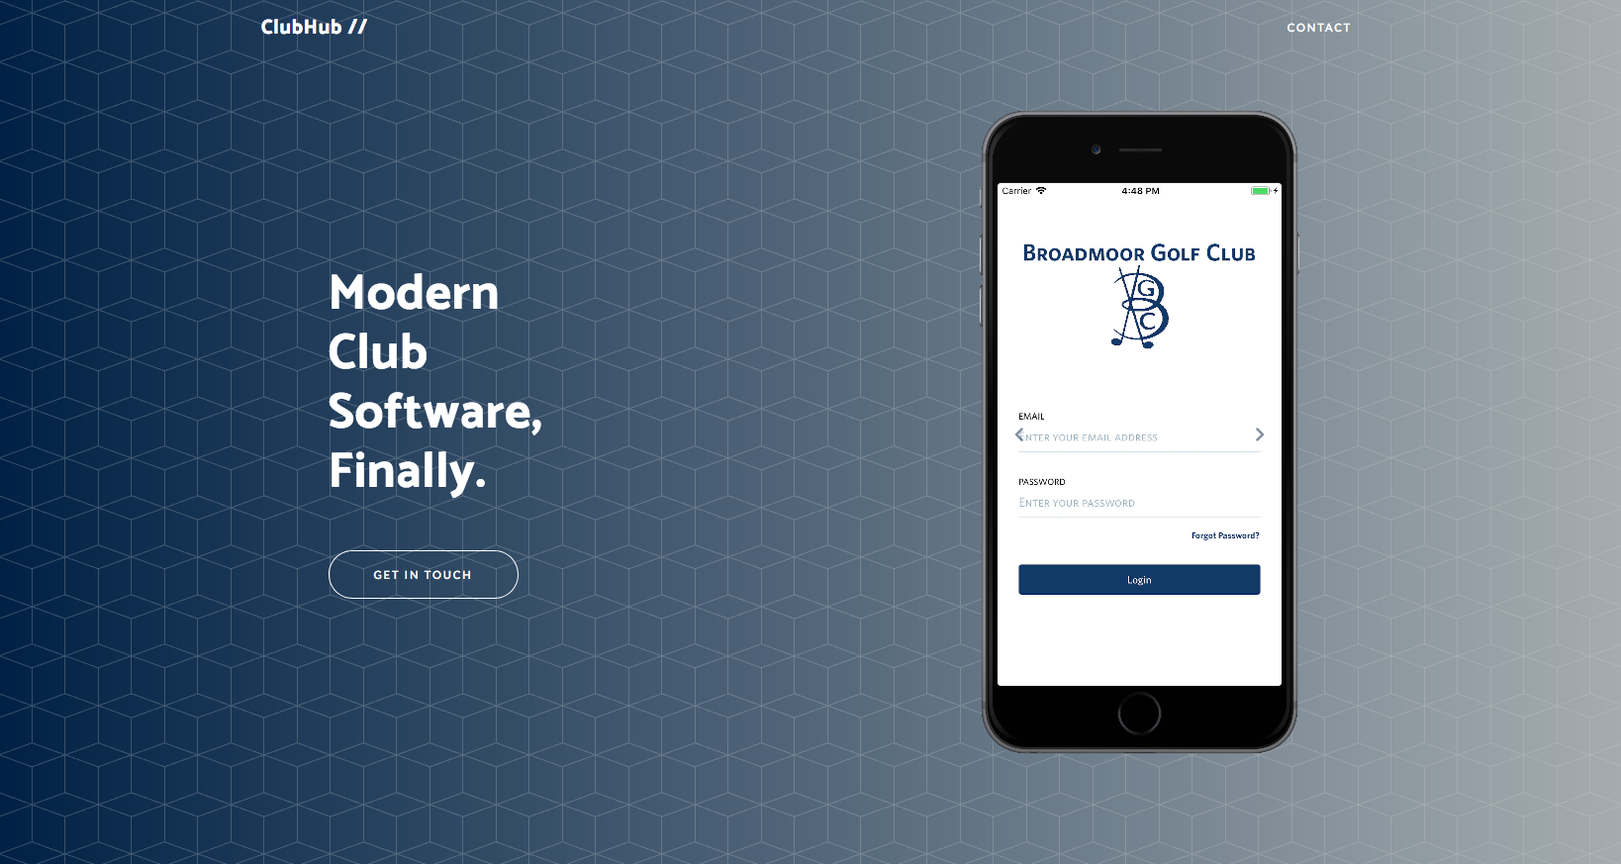
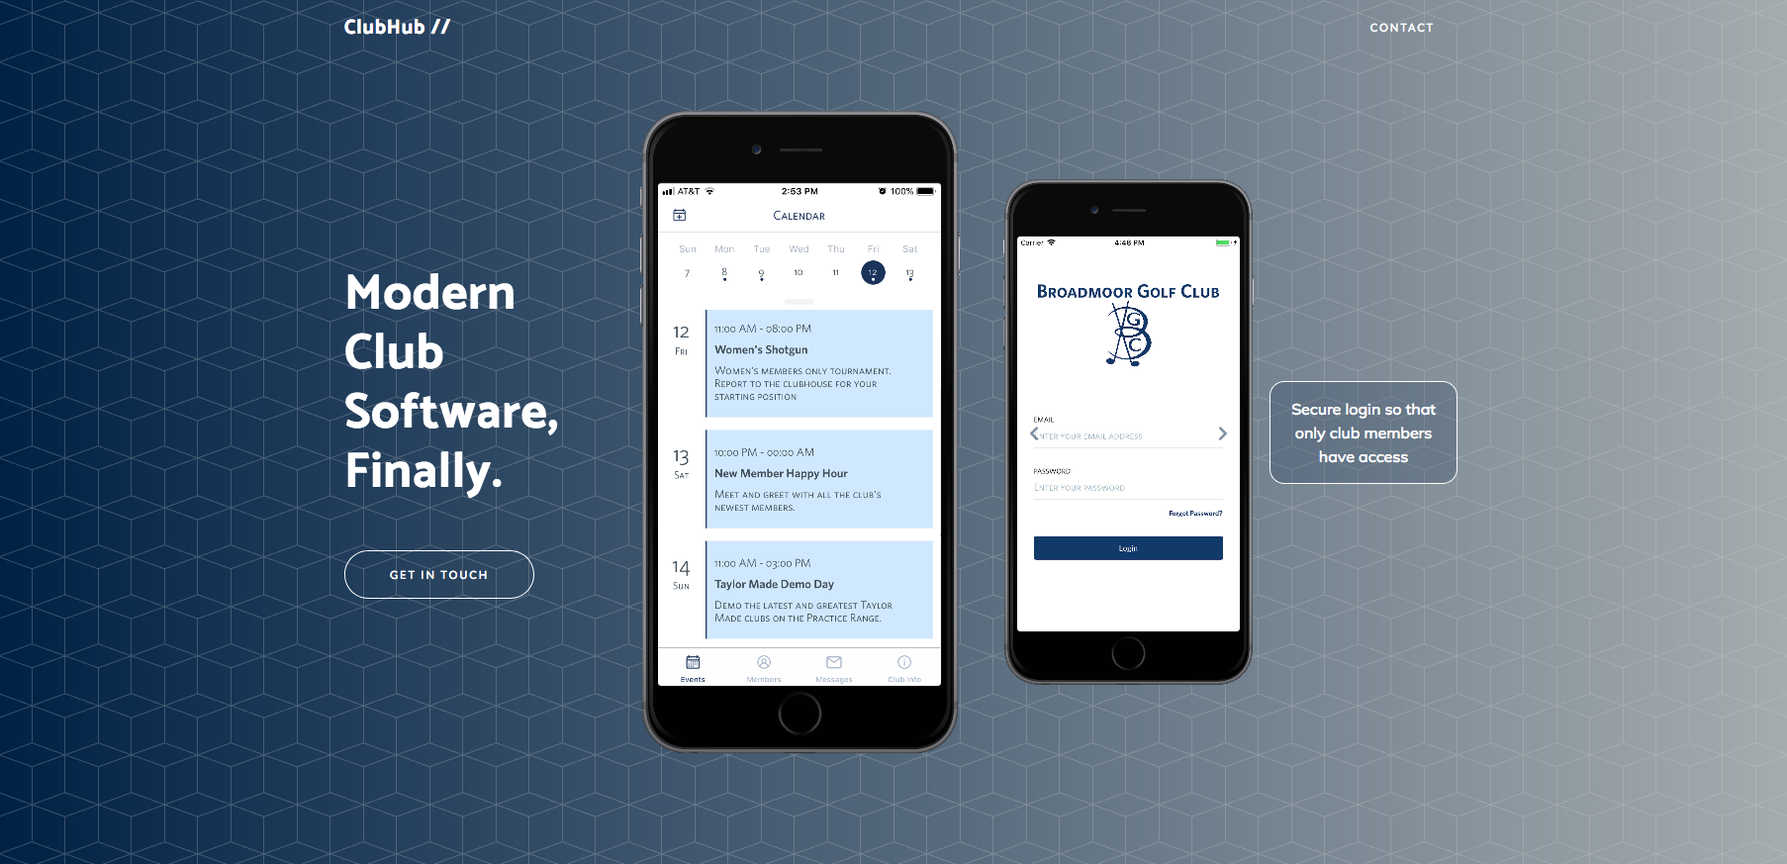
Adding a second phone element to the page, which has a slideshow of screenshots of the app. When the screenshots transition, a new blurb about the screen will appear next to the phone. When the site is viewed on a mobile device, there will only be one phone element on the page; the one with the slid

diff --git a/css/new-age.min.css b/css/new-age.min.css
@@ -2,4 +2,4 @@
  * Start Bootstrap - New Age v5.0.0 (https://startbootstrap.com/template-overviews/new-age)
  * Copyright 2013-2018 Start Bootstrap
  * Licensed under MIT (https://github.com/BlackrockDigital/startbootstrap-new-age/blob/master/LICENSE)
- */body,html{width:100%;height:100%}body{font-family:Muli,Helvetica,Arial,sans-serif}a{color:#66c010;-webkit-transition:all .35s;transition:all .35s}a:focus,a:hover{color:#4d910c}hr{max-width:100px;margin:25px auto 0;border-width:1px;border-color:rgba(34,34,34,.1)}hr.light{border-color:#fff}h1,h2,h3,h4,h5,h6{font-family:Catamaran,Helvetica,Arial,sans-serif;font-weight:200;letter-spacing:1px}p{font-size:18px;line-height:1.5;margin-bottom:20px}section{padding:100px 0}section h2{font-size:50px}#mainNav{border-color:rgba(34,34,34,.05);background-color:rgba(165,172,175,.3);-webkit-transition:all .35s;transition:all .35s;font-family:Catamaran,Helvetica,Arial,sans-serif;font-weight:200;letter-spacing:1px}#mainNav .navbar-brand{color:#fff;font-family:Catamaran,Helvetica,Arial,sans-serif;font-weight:200;letter-spacing:1px;font-weight:700}#mainNav .navbar-brand:focus,#mainNav .navbar-brand:hover{color:#000912}#mainNav .navbar-toggler{font-size:12px;padding:8px 10px;color:#fff;border-color:#fff}#mainNav .navbar-nav>li>a{font-size:11px;font-family:Lato,Helvetica,Arial,sans-serif;letter-spacing:2px;text-transform:uppercase}#mainNav .navbar-nav>li>a.active{color:#66c010!important;background-color:transparent}#mainNav .navbar-nav>li>a.active:hover{background-color:transparent}#mainNav .navbar-nav>li>a,#mainNav .navbar-nav>li>a:focus{color:#fff}#mainNav .navbar-nav>li>a:focus:hover,#mainNav .navbar-nav>li>a:hover{color:#000912}@media (min-width:992px){#mainNav{border-color:transparent;background-color:transparent}#mainNav .navbar-brand{color:#fff}#mainNav .navbar-brand:focus,#mainNav .navbar-brand:hover{color:#66c010}#mainNav .navbar-nav>li>a,#mainNav .navbar-nav>li>a:focus{color:#fff}#mainNav .navbar-nav>li>a:focus:hover,#mainNav .navbar-nav>li>a:hover{color:#66c010}#mainNav.navbar-shrink{border-color:rgba(34,34,34,.1);background-color:#fff}#mainNav.navbar-shrink .navbar-brand{color:#222}#mainNav.navbar-shrink .navbar-brand:focus,#mainNav.navbar-shrink .navbar-brand:hover{color:#66c010}#mainNav.navbar-shrink .navbar-nav>li>a,#mainNav.navbar-shrink .navbar-nav>li>a:focus{color:#fff}#mainNav.navbar-shrink .navbar-nav>li>a:focus:hover,#mainNav.navbar-shrink .navbar-nav>li>a:hover{color:#a5acaf}}header.masthead{position:relative;width:100%;padding-top:150px;padding-bottom:100px;color:#fff;background:url(../img/backgrounds/bg-pattern.png),#a5acaf;background:url(../img/backgrounds/bg-pattern.png),-webkit-gradient(linear,right top,left top,from(#a5acaf),to(#002145));background:url(../img/backgrounds/bg-pattern.png),linear-gradient(to left,#a5acaf,#002145)}header.masthead .header-content{max-width:500px;margin-bottom:100px;text-align:center}header.masthead .header-content h1{font-size:30px;font-weight:700}header.masthead .device-container{max-width:325px;margin-right:auto;margin-left:auto}header.masthead .device-container .screen img{border-radius:3px}@media (min-width:992px){header.masthead{height:100vh;min-height:775px;padding-top:0;padding-bottom:0}header.masthead .header-content{margin-bottom:0;text-align:left}header.masthead .header-content h1{font-size:50px}header.masthead .device-container{max-width:325px}}section.download{position:relative;padding:150px 0}section.download h2{font-size:50px;margin-top:0}section.download .badges .badge-link{display:block;margin-bottom:25px}section.download .badges .badge-link:last-child{margin-bottom:0}section.download .badges .badge-link img{height:60px}@media (min-width:768px){section.download .badges .badge-link{display:inline-block;margin-bottom:0}}@media (min-width:768px){section.download h2{font-size:70px}}section.features .section-heading{margin-bottom:100px}section.features .section-heading h2{margin-top:0}section.features .section-heading p{margin-bottom:0}section.features .device-container,section.features .feature-item{max-width:325px;margin:0 auto}section.features .device-container{margin-bottom:100px}@media (min-width:992px){section.features .device-container{margin-bottom:0}}section.features .feature-item{padding-top:50px;padding-bottom:50px;text-align:center}section.features .feature-item h3{font-size:30px}section.features .feature-item i{font-size:80px;display:block;margin-bottom:15px;background:-webkit-gradient(linear,right top,left top,from(#a5acaf),to(#002145));background:linear-gradient(to left,#a5acaf,#002145);-webkit-background-clip:text;-webkit-text-fill-color:transparent}section.cta{position:relative;padding:250px 0;background-image:url(../img/bg-cta.jpg);background-position:center;background-size:cover}section.cta .cta-content{position:relative;z-index:1}section.cta .cta-content h2{font-size:50px;max-width:450px;margin-top:0;margin-bottom:25px;color:#fff}@media (min-width:768px){section.cta .cta-content h2{font-size:80px}}section.cta .overlay{position:absolute;top:0;left:0;width:100%;height:100%;background-color:rgba(0,0,0,.5)}section.contact{text-align:center}section.contact h2{margin-top:0;margin-bottom:25px}section.contact h2 i{color:#dd4b39}section.contact ul.list-social{margin-bottom:0}section.contact ul.list-social li a{font-size:40px;line-height:80px;display:block;width:80px;height:80px;color:#fff;border-radius:100%}section.contact ul.list-social li.social-twitter a{background-color:#1da1f2}section.contact ul.list-social li.social-twitter a:hover{background-color:#0d95e8}section.contact ul.list-social li.social-facebook a{background-color:#3b5998}section.contact ul.list-social li.social-facebook a:hover{background-color:#344e86}section.contact ul.list-social li.social-google-plus a{background-color:#dd4b39}section.contact ul.list-social li.social-google-plus a:hover{background-color:#d73925}footer{padding:25px 0;text-align:center;color:rgba(255,255,255,.3);background-color:#222}footer p{font-size:12px;margin:0}footer ul{margin-bottom:0}footer ul li a{font-size:12px;color:rgba(255,255,255,.3)}footer ul li a.active,footer ul li a:active,footer ul li a:focus,footer ul li a:hover{text-decoration:none}.bg-primary{background:#66c010;background:-webkit-gradient(linear,left top,left bottom,from(#66c010),to(#59a80e));background:linear-gradient(#66c010,#59a80e)}.text-primary{color:#66c010}.no-gutter>[class*=col-]{padding-right:0;padding-left:0}.btn-outline{color:#fff;border:1px solid;border-color:#fff}.btn-outline.active,.btn-outline:active,.btn-outline:focus,.btn-outline:hover{color:#fff;border-color:#66c010;background-color:#66c010}.btn{border-radius:300px;font-family:Lato,Helvetica,Arial,sans-serif;letter-spacing:2px;text-transform:uppercase}.btn-xl{font-size:11px;padding:15px 45px}.carousel-control-next .fa-chevron-left,.carousel-control-next .fa-chevron-right,.carousel-control-prev .fa-chevron-left,.carousel-control-prev .fa-chevron-right{color:#002145}.device-mockup.iphone6_plus.portrait>.device>.screen,.device-mockup.iphone6_plus>.device>.screen{top:11.58%;bottom:1%;left:5.97%;right:5.97%}
+ */body,html{width:100%;height:100%}body{font-family:Muli,Helvetica,Arial,sans-serif}a{color:#66c010;-webkit-transition:all .35s;transition:all .35s}a:focus,a:hover{color:#4d910c}hr{max-width:100px;margin:25px auto 0;border-width:1px;border-color:rgba(34,34,34,.1)}hr.light{border-color:#fff}h1,h2,h3,h4,h5,h6{font-family:Catamaran,Helvetica,Arial,sans-serif;font-weight:200;letter-spacing:1px}p{font-size:18px;line-height:1.5;margin-bottom:20px}section{padding:100px 0}section h2{font-size:50px}#mainNav{border-color:rgba(34,34,34,.05);background-color:rgba(165,172,175,.3);-webkit-transition:all .35s;transition:all .35s;font-family:Catamaran,Helvetica,Arial,sans-serif;font-weight:200;letter-spacing:1px}#mainNav .navbar-brand{color:#fff;font-family:Catamaran,Helvetica,Arial,sans-serif;font-weight:200;letter-spacing:1px;font-weight:700}#mainNav .navbar-brand:focus,#mainNav .navbar-brand:hover{color:#000912}#mainNav .navbar-toggler{font-size:12px;padding:8px 10px;color:#fff;border-color:#fff}#mainNav .navbar-nav>li>a{font-size:11px;font-family:Lato,Helvetica,Arial,sans-serif;letter-spacing:2px;text-transform:uppercase}#mainNav .navbar-nav>li>a.active{color:#66c010!important;background-color:transparent}#mainNav .navbar-nav>li>a.active:hover{background-color:transparent}#mainNav .navbar-nav>li>a,#mainNav .navbar-nav>li>a:focus{color:#fff}#mainNav .navbar-nav>li>a:focus:hover,#mainNav .navbar-nav>li>a:hover{color:#000912}@media (min-width:992px){#mainNav{border-color:transparent;background-color:transparent}#mainNav .navbar-brand{color:#fff}#mainNav .navbar-brand:focus,#mainNav .navbar-brand:hover{color:#66c010}#mainNav .navbar-nav>li>a,#mainNav .navbar-nav>li>a:focus{color:#fff}#mainNav .navbar-nav>li>a:focus:hover,#mainNav .navbar-nav>li>a:hover{color:#66c010}#mainNav.navbar-shrink{border-color:rgba(34,34,34,.1);background-color:#fff}#mainNav.navbar-shrink .navbar-brand{color:#222}#mainNav.navbar-shrink .navbar-brand:focus,#mainNav.navbar-shrink .navbar-brand:hover{color:#66c010}#mainNav.navbar-shrink .navbar-nav>li>a,#mainNav.navbar-shrink .navbar-nav>li>a:focus{color:#fff}#mainNav.navbar-shrink .navbar-nav>li>a:focus:hover,#mainNav.navbar-shrink .navbar-nav>li>a:hover{color:#a5acaf}}header.masthead{position:relative;width:100%;padding-top:150px;padding-bottom:100px;color:#fff;background:url(../img/backgrounds/bg-pattern.png),#a5acaf;background:url(../img/backgrounds/bg-pattern.png),-webkit-gradient(linear,right top,left top,from(#a5acaf),to(#002145));background:url(../img/backgrounds/bg-pattern.png),linear-gradient(to left,#a5acaf,#002145)}header.masthead .header-content{max-width:500px;margin-bottom:100px;text-align:center}header.masthead .header-content h1{font-size:30px;font-weight:700}header.masthead .device-container{max-width:325px;margin-right:auto;margin-left:auto}header.masthead .device-container .screen img{border-radius:3px}header.masthead .screen-info{border-radius:15px;border:solid 1px #fff;padding:15px;background-color:rgba(0,33,69,.2);text-align:center}header.masthead .screen-info span.toShow{display:none}@media (min-width:992px){header.masthead{height:100vh;min-height:775px;padding-top:0;padding-bottom:0}header.masthead .header-content{margin-bottom:0;text-align:left}header.masthead .header-content h1{font-size:50px}header.masthead .device-container{max-width:325px}}section.download{position:relative;padding:150px 0}section.download h2{font-size:50px;margin-top:0}section.download .badges .badge-link{display:block;margin-bottom:25px}section.download .badges .badge-link:last-child{margin-bottom:0}section.download .badges .badge-link img{height:60px}@media (min-width:768px){section.download .badges .badge-link{display:inline-block;margin-bottom:0}}@media (min-width:768px){section.download h2{font-size:70px}}section.features .section-heading{margin-bottom:100px}section.features .section-heading h2{margin-top:0}section.features .section-heading p{margin-bottom:0}section.features .device-container,section.features .feature-item{max-width:325px;margin:0 auto}section.features .device-container{margin-bottom:100px}@media (min-width:992px){section.features .device-container{margin-bottom:0}}section.features .feature-item{padding-top:50px;padding-bottom:50px;text-align:center}section.features .feature-item h3{font-size:30px}section.features .feature-item i{font-size:80px;display:block;margin-bottom:15px;background:-webkit-gradient(linear,right top,left top,from(#a5acaf),to(#002145));background:linear-gradient(to left,#a5acaf,#002145);-webkit-background-clip:text;-webkit-text-fill-color:transparent}section.cta{position:relative;padding:250px 0;background-image:url(../img/bg-cta.jpg);background-position:center;background-size:cover}section.cta .cta-content{position:relative;z-index:1}section.cta .cta-content h2{font-size:50px;max-width:450px;margin-top:0;margin-bottom:25px;color:#fff}@media (min-width:768px){section.cta .cta-content h2{font-size:80px}}section.cta .overlay{position:absolute;top:0;left:0;width:100%;height:100%;background-color:rgba(0,0,0,.5)}section.contact{text-align:center}section.contact h2{margin-top:0;margin-bottom:25px}section.contact h2 i{color:#dd4b39}section.contact ul.list-social{margin-bottom:0}section.contact ul.list-social li a{font-size:40px;line-height:80px;display:block;width:80px;height:80px;color:#fff;border-radius:100%}section.contact ul.list-social li.social-twitter a{background-color:#1da1f2}section.contact ul.list-social li.social-twitter a:hover{background-color:#0d95e8}section.contact ul.list-social li.social-facebook a{background-color:#3b5998}section.contact ul.list-social li.social-facebook a:hover{background-color:#344e86}section.contact ul.list-social li.social-google-plus a{background-color:#dd4b39}section.contact ul.list-social li.social-google-plus a:hover{background-color:#d73925}footer{padding:25px 0;text-align:center;color:rgba(255,255,255,.3);background-color:#222}footer p{font-size:12px;margin:0}footer ul{margin-bottom:0}footer ul li a{font-size:12px;color:rgba(255,255,255,.3)}footer ul li a.active,footer ul li a:active,footer ul li a:focus,footer ul li a:hover{text-decoration:none}.bg-primary{background:#66c010;background:-webkit-gradient(linear,left top,left bottom,from(#66c010),to(#59a80e));background:linear-gradient(#66c010,#59a80e)}.text-primary{color:#66c010}.no-gutter>[class*=col-]{padding-right:0;padding-left:0}.btn-outline{color:#fff;border:1px solid;border-color:#fff}.btn-outline.active,.btn-outline:active,.btn-outline:focus,.btn-outline:hover{color:#fff;border-color:#66c010;background-color:#66c010}.btn{border-radius:300px;font-family:Lato,Helvetica,Arial,sans-serif;letter-spacing:2px;text-transform:uppercase}.btn-xl{font-size:11px;padding:15px 45px}.carousel-control-next .fa-chevron-left,.carousel-control-next .fa-chevron-right,.carousel-control-prev .fa-chevron-left,.carousel-control-prev .fa-chevron-right{color:#002145}.device-mockup.iphone6_plus.portrait>.device>.screen,.device-mockup.iphone6_plus>.device>.screen{top:11.58%;bottom:1%;left:5.97%;right:5.97%}

diff --git a/index.html b/index.html
@@ -51,7 +51,7 @@
     <header class="masthead">
         <div class="container h-100">
             <div class="row h-100">
-                <div class="col-lg-7 my-auto">
+                <div class="col-lg-3 my-auto">
                     <div class="header-content mx-auto">
                         <h1 class="mb-5">
                             Modern<br />
@@ -59,10 +59,22 @@
                             Software,<br />
                             Finally.
                         </h1>
-                        <a href="#contact" class="btn btn-outline btn-xl js-scroll-trigger" data-toggle="modal" data-target="#contactModal">Get in touch</a>
+                        <a href="#contact" class="btn btn-outline btn-xl js-scroll-trigger" data-toggle="modal"
+                            data-target="#contactModal">Get in touch</a>
                     </div>
                 </div>
-                <div class="col-lg-5 my-auto">
+                <div class="col-lg-4 col-md-5 my-auto d-none d-md-block">
+                    <div class="device-container">
+                        <div class="device-mockup iphone6_plus portrait black">
+                            <div class="device">
+                                <div class="screen">
+                                    <img class="d-block w-100" src="img/screenshot-calendar-detail.png" class="img-fluid" alt="">
+                                </div>
+                            </div>
+                        </div>
+                    </div>
+                </div>
+                <div class="col-lg-3 col-md-4 col-sm-6 my-auto">
                     <div class="device-container">
                         <div class="device-mockup iphone6_plus portrait black">
                             <div class="device">
@@ -70,10 +82,14 @@
                                     <div id="deviceCarouselIndicators" class="carousel slide" data-ride="carousel">
                                         <div class="carousel-inner">
                                             <div class="carousel-item active">
-                                                <img class="d-block w-100" src="img/screenshot-login.png" class="img-fluid" alt="">
+                                                <img class="d-block w-100" src="img/screenshot-login.png" class="img-fluid"
+                                                    alt="">
                                             </div>
                                             <div class="carousel-item">
                                                 <img class="d-block w-100" src="img/screenshot-events.png" alt="">
+                                            </div>
+                                            <div class="carousel-item">
+                                                <img class="d-block w-100" src="img/screenshot-calendar-detail.png" alt="">
                                             </div>
                                             <div class="carousel-item">
                                                 <img class="d-block w-100" src="img/screenshot-members.png" alt="">
@@ -82,10 +98,12 @@
                                                 <img class="d-block w-100" src="img/screenshot-messages.png" alt="">
                                             </div>
                                         </div>
-                                        <a class="carousel-control-prev" href="#deviceCarouselIndicators" role="button" data-slide="prev">
+                                        <a class="carousel-control-prev" href="#deviceCarouselIndicators" role="button"
+                                            data-slide="prev">
                                             <i class="fa fa-chevron-left"></i>
                                         </a>
-                                        <a class="carousel-control-next" href="#deviceCarouselIndicators" role="button" data-slide="next">
+                                        <a class="carousel-control-next" href="#deviceCarouselIndicators" role="button"
+                                            data-slide="next">
                                             <i class="fa fa-chevron-right"></i>
                                         </a>
                                     </div>
@@ -93,6 +111,23 @@
                             </div>
                         </div>
                     </div>
+                </div>
+                <div class="col-lg-2 col-md-3 col-sm-6 my-auto screen-info">
+                    <span id="screen-info-1">
+                        Secure login so that only club members have access
+                    </span>
+                    <span id="screen-info-2" class="toShow">
+                        Easily keep members up to date with the club calendar
+                    </span>
+                    <span id="screen-info-3" class="toShow">
+                        Members can view and sign up for club events right in the app
+                    </span>
+                    <span id="screen-info-4" class="toShow">
+                        The directory makes it easy for members to connect
+                    </span>
+                    <span id="screen-info-5" class="toShow">
+                        Club announcements and member messaging all in one place
+                    </span>
                 </div>
             </div>
         </div>

diff --git a/js/new-age.js b/js/new-age.js
@@ -39,4 +39,62 @@
   // Collapse the navbar when page is scrolled
   $(window).scroll(navbarCollapse);
 
+  // Watch the Carousel
+  $('#deviceCarouselIndicators').on('slide.bs.carousel', function (e) {
+      var from = e.from + 1;
+      var to = e.to + 1;
+
+      // The selector for the box around the info text
+      var infoSelector = '.screen-info';
+      var previousInfoHeight = $(infoSelector).outerHeight();
+
+      // The text that we are going to hide
+      var hideSelector = '#screen-info-' + from;
+      
+      // The text that we are going to show
+      var showSelector = '#screen-info-' + to;
+
+      // Make sure we don't have any irrelevant text showing
+      $(infoSelector + '> span').not(hideSelector).css('display', 'none');
+      
+      $(hideSelector).fadeOut('slow', function() {
+        // To be able to smoothly animate the info box
+        // to a new height, we need to determine what the
+        // new height will be.
+        
+        // We will briefly display the item we will show,
+        // while setting the info box's height to be auto.
+        $(showSelector).css('display', 'inline');
+        $(infoSelector).css('height', 'auto');
+
+        // We can now capture the height we will need to animate to.
+        var height = $(infoSelector).outerHeight();
+
+        // We set the height of the info box to be what it was
+        // previously, so that its height doesn't change.
+        $(infoSelector).css('height', previousInfoHeight);
+
+        // We hide the item we want to display again, so that we
+        // can fade it into view
+        $(showSelector).css('display', 'none');
+
+        // Animate the info box height with the new value,
+        // and fade in the text that we want
+        $(infoSelector).animate({ height: height }, 1000, function () {
+            // Set the info box's height to auto so that it can be responsive
+            $(infoSelector).css('height', 'auto');
+        });
+        $(showSelector).fadeIn('slow');
+      })
+  })
+
+  $('#deviceCarouselIndicators').on('slid.bs.carousel', function (e) {
+      var to = e.to + 1;
+      var showSelector = '#screen-info-' + to;
+      var infoSelector = '.screen-info';
+
+      // Make sure we don't have any irrelevant text showing
+      $(infoSelector + '> span').not(showSelector).css('display', 'none');
+  })
+
 })(jQuery); // End of use strict

diff --git a/js/new-age.min.js b/js/new-age.min.js
@@ -4,4 +4,4 @@
  * Licensed under MIT (https://github.com/BlackrockDigital/startbootstrap-new-age/blob/master/LICENSE)
  */
 
-!function(e){"use strict";e('a.js-scroll-trigger[href*="#"]:not([href="#"])').click(function(){if(location.pathname.replace(/^\//,"")==this.pathname.replace(/^\//,"")&&location.hostname==this.hostname){var a=e(this.hash);if((a=a.length?a:e("[name="+this.hash.slice(1)+"]")).length)return e("html, body").animate({scrollTop:a.offset().top-48},1e3,"easeInOutExpo"),!1}}),e(".js-scroll-trigger").click(function(){e(".navbar-collapse").collapse("hide")}),e("body").scrollspy({target:"#mainNav",offset:54});var a=function(){100<e("#mainNav").offset().top?e("#mainNav").addClass("navbar-shrink"):e("#mainNav").removeClass("navbar-shrink")};a(),e(window).scroll(a)}(jQuery);
+!function(c){"use strict";c('a.js-scroll-trigger[href*="#"]:not([href="#"])').click(function(){if(location.pathname.replace(/^\//,"")==this.pathname.replace(/^\//,"")&&location.hostname==this.hostname){var s=c(this.hash);if((s=s.length?s:c("[name="+this.hash.slice(1)+"]")).length)return c("html, body").animate({scrollTop:s.offset().top-48},1e3,"easeInOutExpo"),!1}}),c(".js-scroll-trigger").click(function(){c(".navbar-collapse").collapse("hide")}),c("body").scrollspy({target:"#mainNav",offset:54});var s=function(){100<c("#mainNav").offset().top?c("#mainNav").addClass("navbar-shrink"):c("#mainNav").removeClass("navbar-shrink")};s(),c(window).scroll(s),c("#deviceCarouselIndicators").on("slide.bs.carousel",function(s){var e=s.from+1,n=s.to+1,a=".screen-info",o=c(a).outerHeight(),i="#screen-info-"+e,t="#screen-info-"+n;c(a+"> span").not(i).css("display","none"),c(i).fadeOut("slow",function(){c(t).css("display","inline"),c(a).css("height","auto");var s=c(a).outerHeight();c(a).css("height",o),c(t).css("display","none"),c(a).animate({height:s},1e3,function(){c(a).css("height","auto")}),c(t).fadeIn("slow")})}),c("#deviceCarouselIndicators").on("slid.bs.carousel",function(s){var e="#screen-info-"+(s.to+1);c(".screen-info> span").not(e).css("display","none")})}(jQuery);

diff --git a/scss/_masthead.scss b/scss/_masthead.scss
@@ -28,6 +28,17 @@ header.masthead {
             border-radius: 3px;
         }
     }
+    .screen-info {
+        border-radius: 15px;
+        border: solid 1px white;
+        padding: 15px;
+        background-color: fade-out($theme-tertiary, .80);
+
+        text-align: center;
+        span.toShow {
+            display: none;
+        }
+    }
     @media (min-width: 992px) {
         height: 100vh;
         min-height: 775px;

diff --git a/css/new-age.css b/css/new-age.css
@@ -186,6 +186,18 @@ header.masthead .device-container .screen img {
   border-radius: 3px;
 }
 
+header.masthead .screen-info {
+  border-radius: 15px;
+  border: solid 1px white;
+  padding: 15px;
+  background-color: rgba(0, 33, 69, 0.2);
+  text-align: center;
+}
+
+header.masthead .screen-info span.toShow {
+  display: none;
+}
+
 @media (min-width: 992px) {
   header.masthead {
     height: 100vh;
